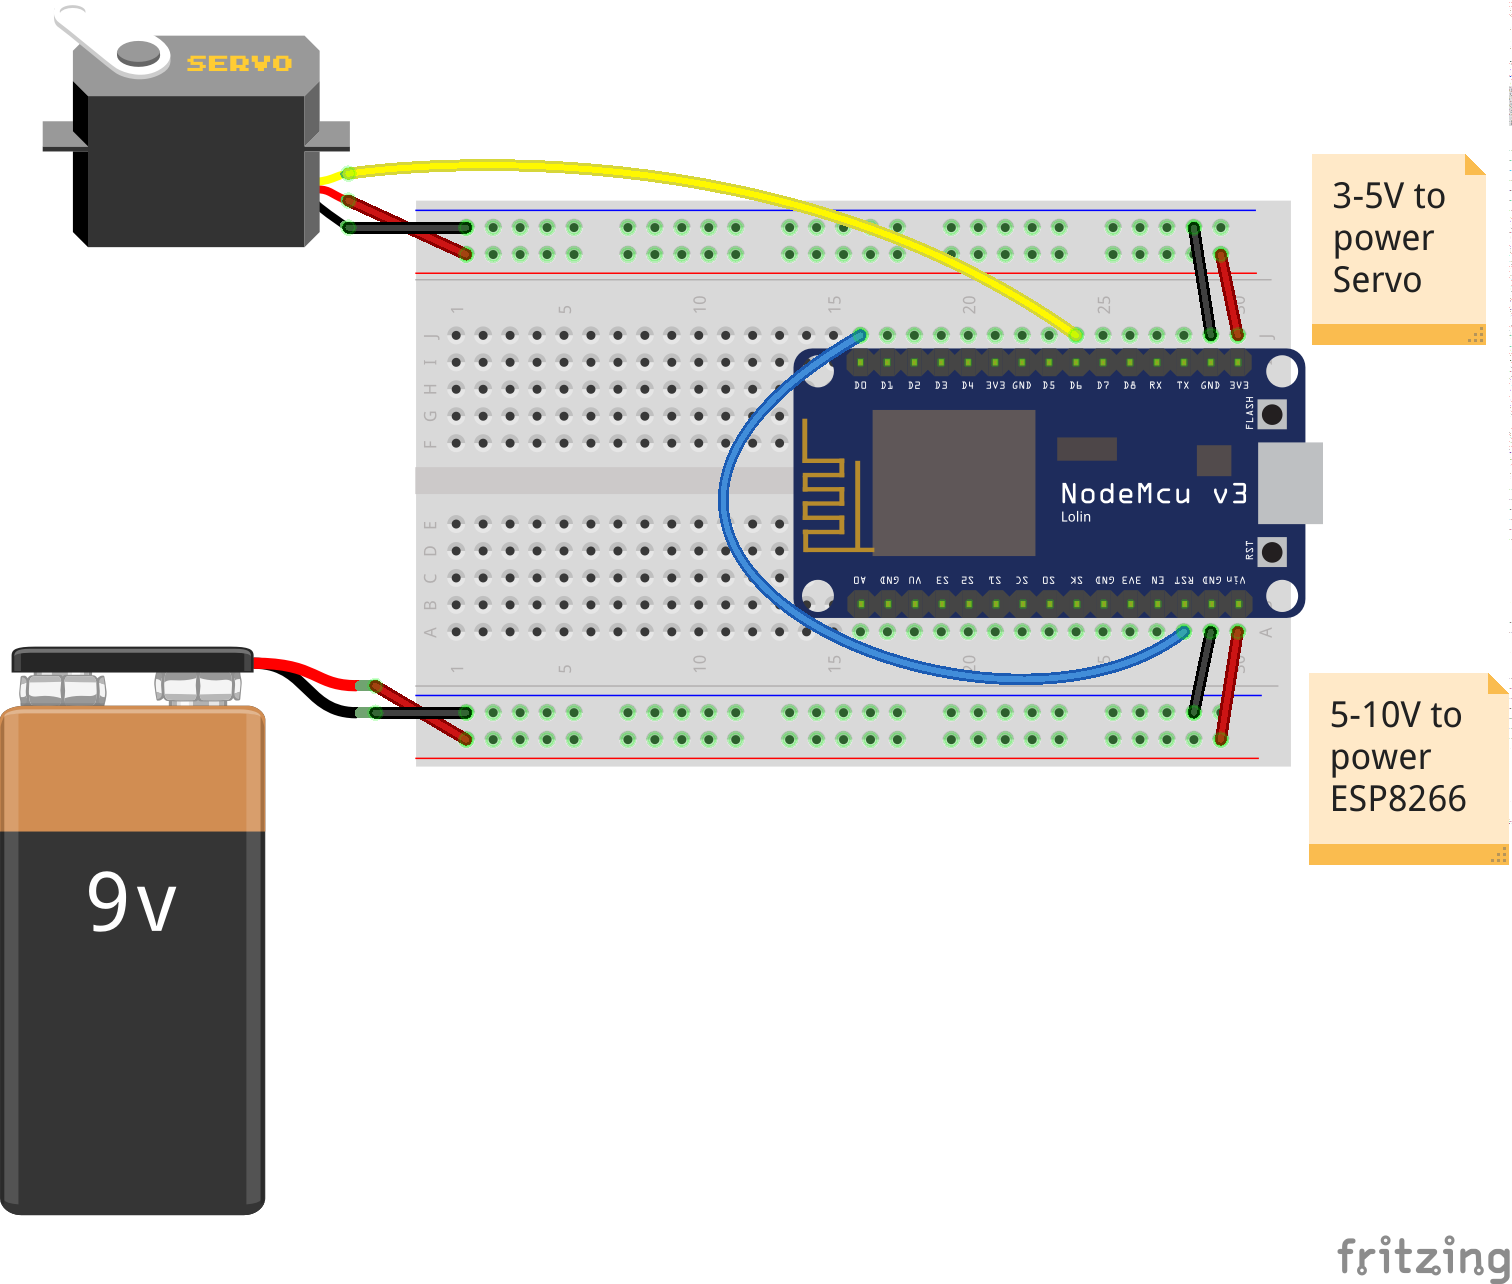
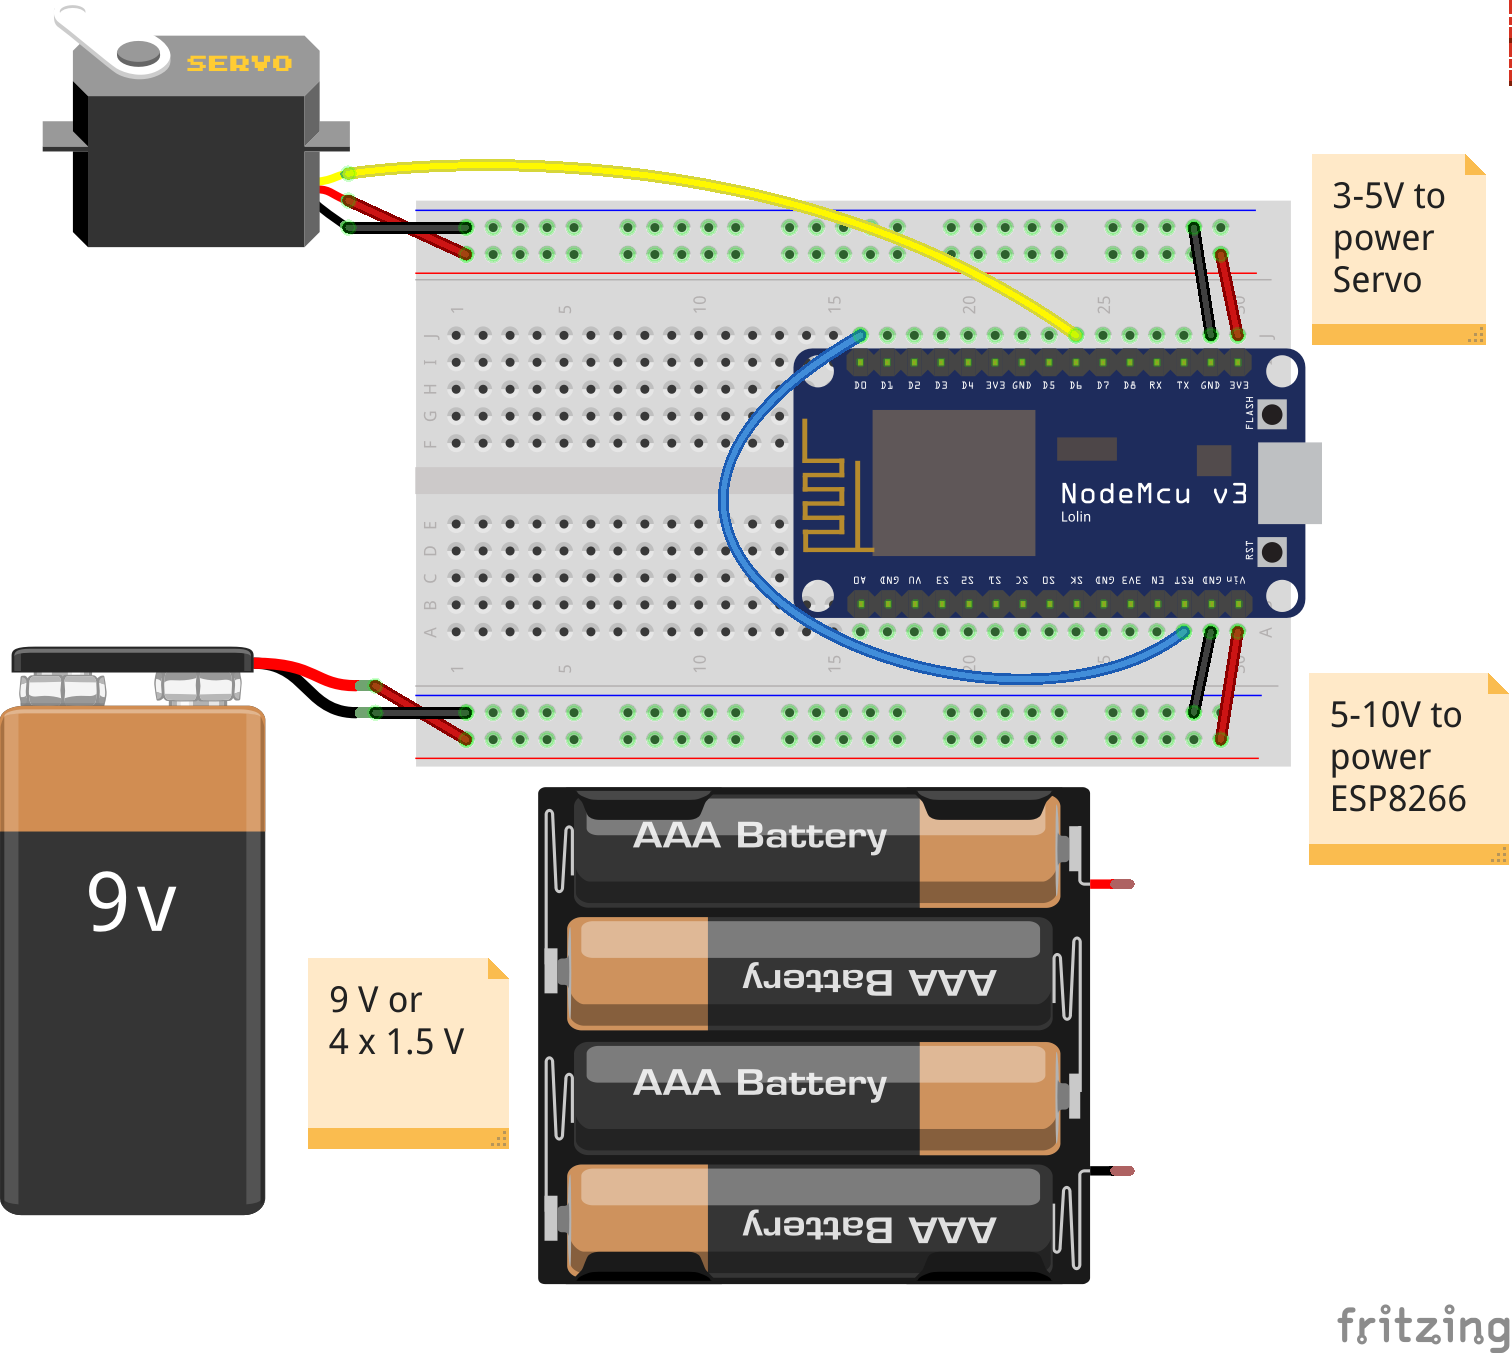
added battery pack to sketch and description.

diff --git a/README.md b/README.md
@@ -88,7 +88,8 @@ of about 20 µA in deep sleep mode, the powerbank may turn itself off
 automatically.
 
 The VIN pin of the nocdemcu devkit is connected to a power
-regulator. Therefore a 9V battery can be attached to power the board.
+regulator. Therefore a single 9V battery or a 4 x 1.5V battery pack
+can be attached to power the board.
 
 An
 [article at Henry's Bench](http://henrysbench.capnfatz.com/henrys-bench/arduino-projects-tips-and-more/powering-the-esp-12e-nodemcu-development-board/) 
